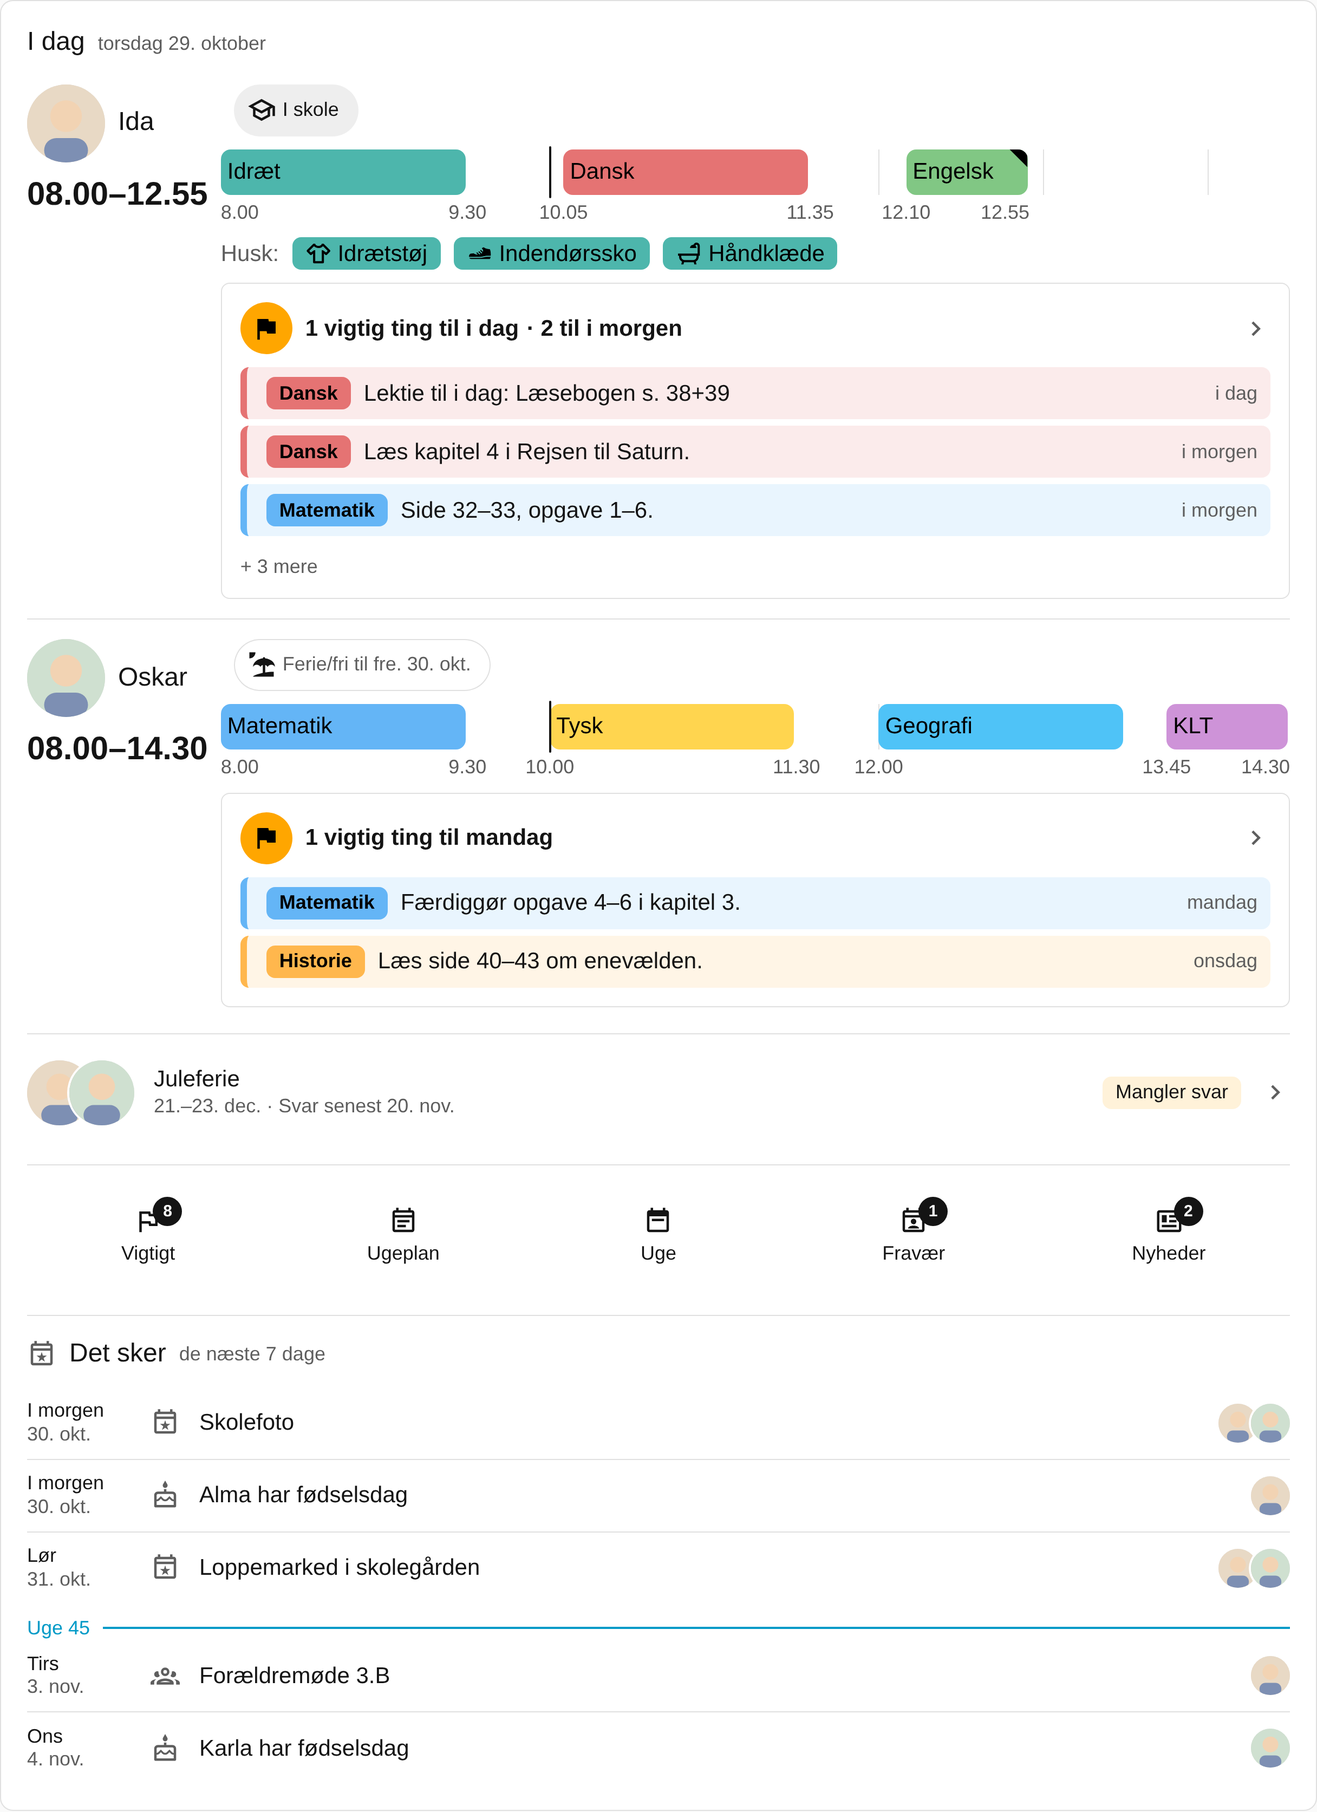
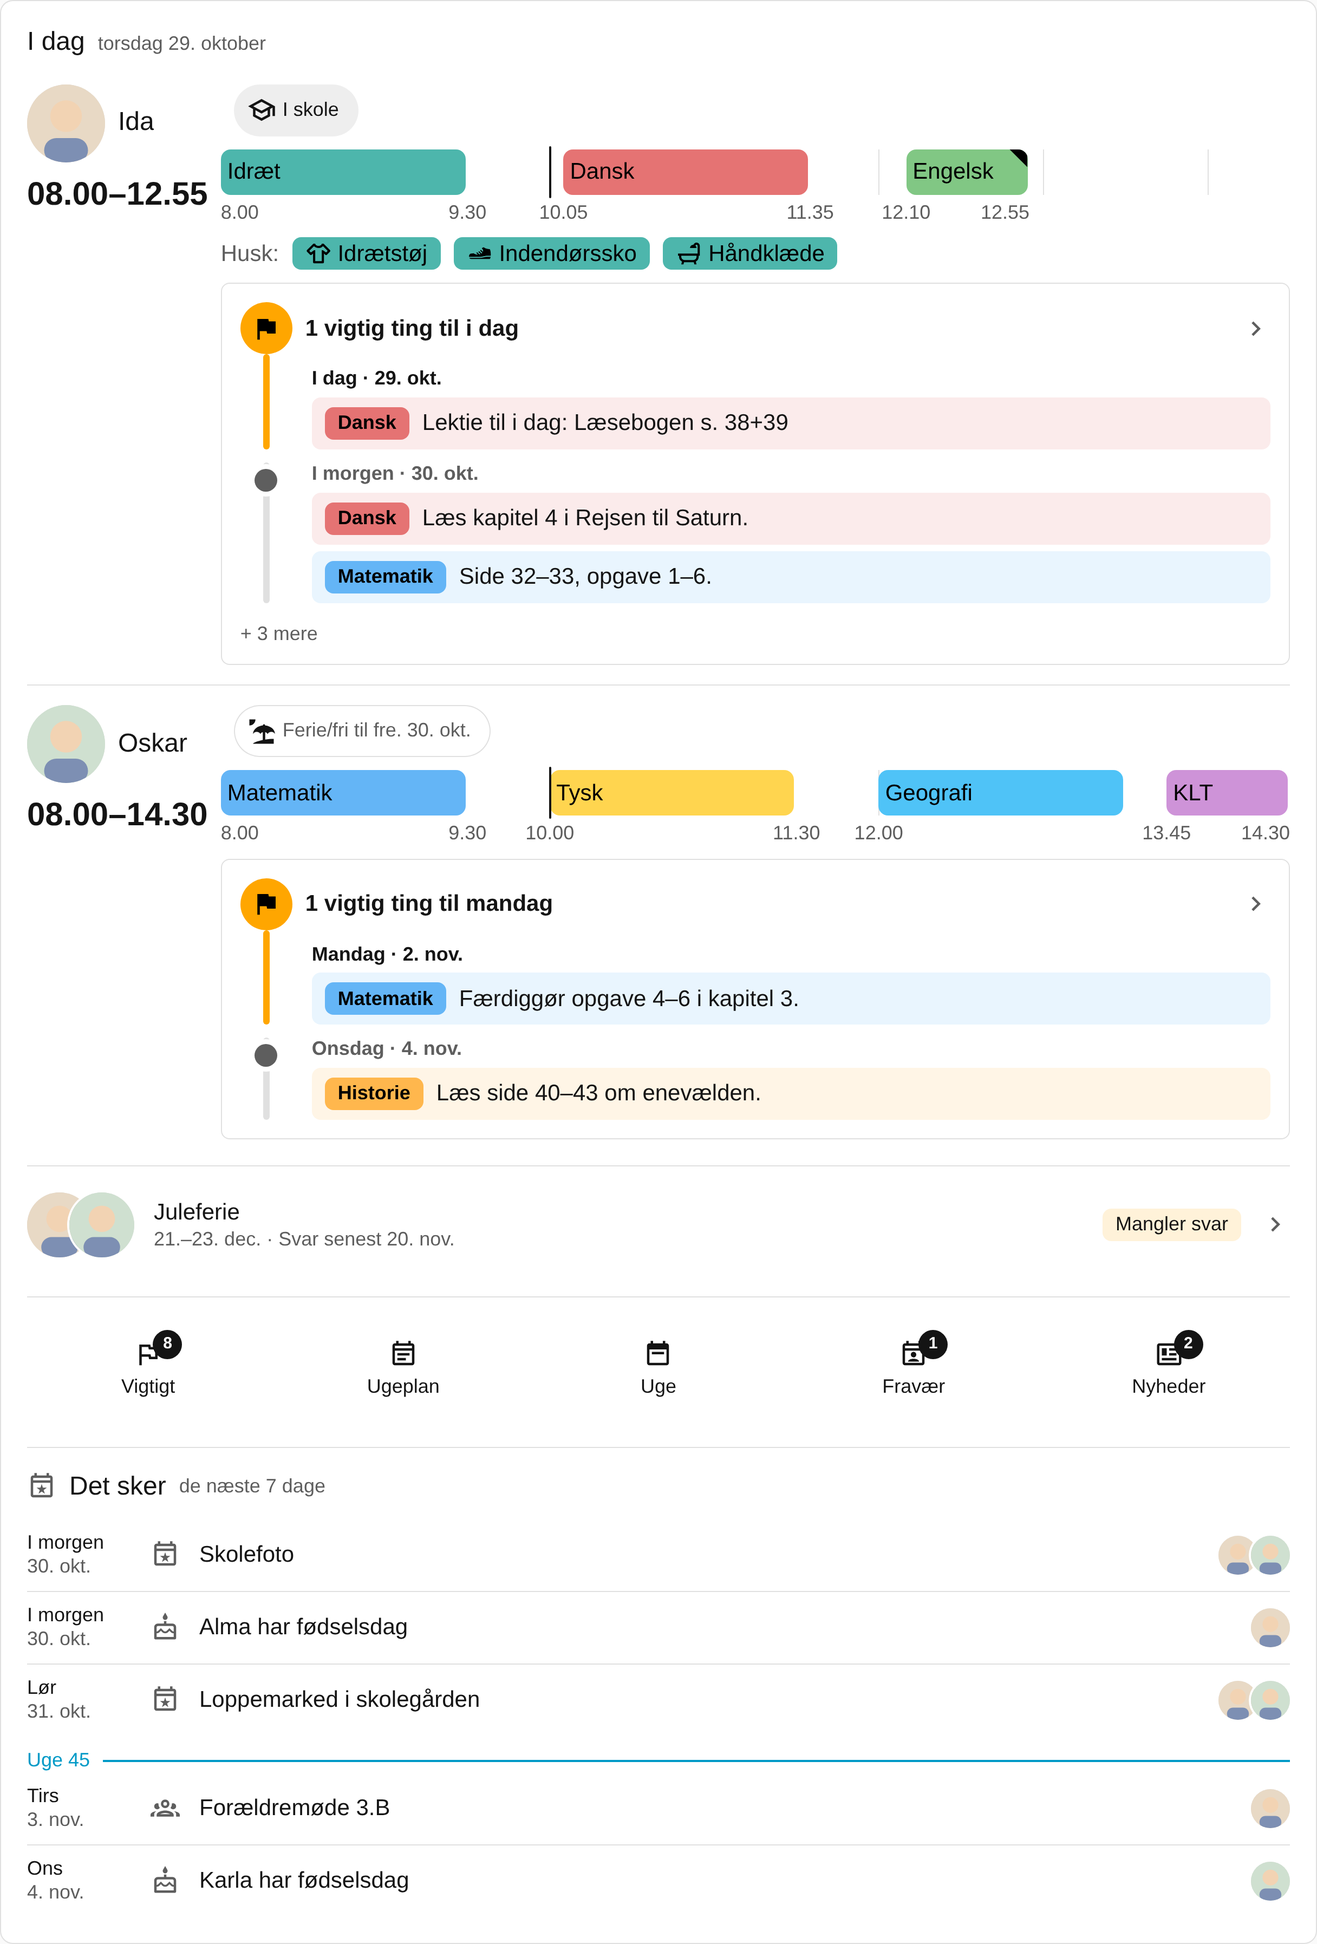
Show what is important by its day, an orange line running down from the flag through the first day, and no subject stripe
Claude-Session: https://claude.ai/code/session_01SqQDNZBDdSDZgAEZdkAgqw

diff --git a/src/ui/overview.ts b/src/ui/overview.ts
@@ -183,19 +183,22 @@ export function whenText(day: Day, ctx: ViewContext): string {
   return ahead < 7 ? formatWeekday(day, ctx.language) : formatShortDate(day, ctx.language);
 }
 
-/** Returns the days a summary names: the first with something important, and the next if soon. */
-function summaryDays(important: readonly ImportantDue[], ctx: ViewContext): Day[] {
-  return [...new Set(important.map((item) => item.day))].filter(
-    (day, index) => index === 0 || (index === 1 && daysBetween(ctx.today, day) <= 3),
-  );
+/** Returns a day's heading among the important: "I morgen · 30. okt.", or its weekday. */
+function dueDay(day: Day, ctx: ViewContext): string {
+  const word =
+    daysBetween(ctx.today, day) < 7 ? whenText(day, ctx) : formatWeekday(day, ctx.language);
+  return `${capitalize(word, ctx.language)} · ${formatShortDate(day, ctx.language)}`;
 }
 
-/** Returns how much is important for the days a summary names. */
-function importantParts(important: readonly ImportantDue[], ctx: ViewContext): string[] {
-  const on = (day: Day): number => important.filter((item) => item.day === day).length;
-  return summaryDays(important, ctx).map((day, index) =>
-    ctx.t(index === 0 ? "importantFor" : "importantThen", { n: on(day), when: whenText(day, ctx) }),
-  );
+/** Returns the notes grouped by their day, in order. */
+function byDay(important: readonly ImportantDue[]): { day: Day; notes: ImportantDue[] }[] {
+  const days: { day: Day; notes: ImportantDue[] }[] = [];
+  for (const due of important) {
+    const last = days.at(-1);
+    if (last?.day === due.day) last.notes.push(due);
+    else days.push({ day: due.day, notes: [due] });
+  }
+  return days;
 }
 
 /** Returns the axis every child's bar shares: from the earliest start to the latest end. */
@@ -311,8 +314,9 @@ function dueItem(due: ImportantDue, ctx: ViewContext): TemplateResult {
 }
 
 /**
- * Shows what is important coming up: how much for when, and as a list, the next `look.max` notes,
- * a line each with its subject and day; the whole opens all of them. Nothing where nothing is.
+ * Shows what is important coming up: how much for the first day, and as a list, the next
+ * `look.max` notes by their day, the first day on the flag's line; the whole opens all of them.
+ * Nothing where nothing is.
  */
 function importantBlock(
   item: OverviewChild,
@@ -326,7 +330,7 @@ function importantBlock(
   const key = `important|${String(item.child.child_id)}`;
   const list = look.important === "list";
   const hidden = item.important.length - look.max;
-  // The summary's later day wraps onto a line that is cut off, so that it shows only with room.
+  const count = item.important.filter((due) => due.day === first.day).length;
   return html`<button
     class="ov-important ${list ? "is-list" : "is-button"}"
     type="button"
@@ -339,27 +343,28 @@ function importantBlock(
     <span class="ov-important-head">
       <span class="ov-important-mark">${icon("mdi:flag")}</span
       ><span class="ov-important-sum"
-        >${importantParts(item.important, ctx).map(
-          (part, index) => html`<span>${index > 0 ? ` · ${part}` : part}</span>`,
-        )}</span
+        >${ctx.t("importantFor", { n: count, when: whenText(first.day, ctx) })}</span
       >${icon("mdi:chevron-right", "ov-important-go")}
     </span>
     ${
       list
         ? html`<span class="ov-important-lines">
-              ${item.important
-                .slice(0, look.max)
-                .map(
-                  (due) =>
-                    html`<span
-                      class="ov-important-line"
-                      style=${due.note.subject ? subjectColor(due.note.subject) : ""}
-                      >${due.note.subject ? subjectLabel(due.note.subject, ctx) : nothing}<span
-                        class="ov-important-text"
-                        >${aula(due.note.title ?? due.note.text.replace(/\n[\s\S]*$/, ""), ctx)}</span
-                      ><span class="ov-when">${whenText(due.day, ctx)}</span></span
-                    >`,
-                )}
+              ${byDay(item.important.slice(0, look.max)).map(
+                (group, index) =>
+                  html`<span class="ov-due-day ${index === 0 ? "is-first" : ""}"
+                    ><span class="ov-due-head">${dueDay(group.day, ctx)}</span>${group.notes.map(
+                      (due) =>
+                        html`<span
+                          class="ov-important-line"
+                          style=${due.note.subject ? subjectColor(due.note.subject) : ""}
+                          >${due.note.subject ? subjectLabel(due.note.subject, ctx) : nothing}<span
+                            class="ov-important-text"
+                            >${aula(due.note.title ?? due.note.text.replace(/\n[\s\S]*$/, ""), ctx)}</span
+                          ></span
+                        >`,
+                    )}</span
+                  >`,
+              )}
             </span>
             ${hidden > 0 ? html`<span class="ov-more">${ctx.t("moreCount", { n: hidden })}</span>` : nothing}`
         : nothing
@@ -827,30 +832,29 @@ export function openImportant(
   const important = options.paths.important;
   state.openModal(key, (ctx, close) => {
     const face = state.face(item.child);
-    const days = [...new Set(item.upcoming.map((due) => due.day))];
-    // The days the overview summed up are marked, and the window opens at the first of them.
-    const marked = summaryDays(item.important, ctx);
+    const days = byDay(item.upcoming);
+    // The first day the overview counts is the flag's, and the window opens at it.
+    const flagged = item.important[0]?.day;
     return modal(
       html`${head(ctx.t("importantTitle", { name: face.name }), [ctx.t("importantFrom", { day: whenText(ctx.today, ctx) })], [], ctx, close, faceImage(face, "window-face"))}
-      ${days.map((day, index) => {
-        const title = `${capitalize(daysBetween(ctx.today, day) < 7 ? whenText(day, ctx) : formatWeekday(day, ctx.language), ctx.language)} · ${formatShortDate(day, ctx.language)}`;
-        const notes = html`<ul class="note-due">
-          ${item.upcoming.filter((due) => due.day === day).map((due) => dueItem(due, ctx))}
-        </ul>`;
-        return html`${weekBreak(day, days[index - 1], ctx)}${
-          marked.includes(day)
-            ? html`<section
-                class="detail-section important-marked"
-                ?data-opens-at=${day === marked[0]}
-              >
-                <h3 class="detail-heading">
-                  <span class="ov-important-mark">${icon("mdi:flag")}</span>${title}
-                </h3>
-                ${notes}
-              </section>`
-            : section(title, [], notes)
-        }`;
-      })}
+      ${days.map(
+        (group, index) =>
+          html`${weekBreak(group.day, days[index - 1]?.day, ctx)}
+            <section
+              class="due-day ${group.day === flagged ? "is-first" : ""}"
+              ?data-opens-at=${group.day === flagged}
+            >
+              ${
+                group.day === flagged
+                  ? html`<span class="ov-important-mark due-node">${icon("mdi:flag")}</span>`
+                  : html`<span class="due-dot"></span>`
+              }
+              <h3 class="due-head">${dueDay(group.day, ctx)}</h3>
+              <ul class="note-due">
+                ${group.notes.map((due) => dueItem(due, ctx))}
+              </ul>
+            </section>`,
+      )}
       ${
         important === null
           ? nothing

diff --git a/src/ui/styles.ts b/src/ui/styles.ts
@@ -2958,15 +2958,63 @@ export const family = css`
   .ov-important-lines {
     display: flex;
     flex-direction: column;
+    gap: var(--aula-space-2);
+  }
+  /* A line runs down from the flag through the first day's notes; a later day has a dot on a
+     quiet line. The line sits under the flag's middle. */
+  .ov-due-day,
+  .due-day {
+    position: relative;
+    display: flex;
+    flex-direction: column;
     gap: var(--aula-space-1);
+    padding-inline-start: calc(44px * var(--aula-scale));
+  }
+  .ov-due-day::before,
+  .due-day::before {
+    position: absolute;
+    inset-block: 0;
+    inset-inline-start: calc(14px * var(--aula-scale));
+    width: calc(4px * var(--aula-scale));
+    border-radius: 999px;
+    background: var(--aula-line);
+    content: "";
+  }
+  .ov-due-day.is-first::before,
+  .due-day.is-first::before {
+    background: var(--aula-warning);
+  }
+  .ov-important-lines > .ov-due-day.is-first::before {
+    top: calc(-1 * var(--aula-space-2));
+  }
+  .ov-due-day:not(.is-first)::after,
+  .due-dot {
+    position: absolute;
+    top: calc(4px * var(--aula-scale));
+    inset-inline-start: calc(9px * var(--aula-scale));
+    width: calc(14px * var(--aula-scale));
+    height: calc(14px * var(--aula-scale));
+    border-radius: 50%;
+    background: var(--aula-text-2);
+    box-shadow: 0 0 0 calc(3px * var(--aula-scale)) var(--aula-surface);
+    content: "";
+  }
+  .ov-due-head,
+  .due-head {
+    margin: 0;
+    color: var(--aula-text-2);
+    font-size: var(--aula-font-s);
+    font-weight: var(--aula-bold);
+  }
+  .is-first > :is(.ov-due-head, .due-head) {
+    color: var(--aula-text);
   }
   .ov-important-line {
     display: flex;
     align-items: center;
     gap: var(--aula-space-2);
     min-height: calc(32px * var(--aula-scale));
-    padding: 0 var(--aula-space-2) 0 var(--aula-space-3);
-    border-inline-start: calc(4px * var(--aula-scale)) solid var(--subject, var(--aula-line));
+    padding: 0 var(--aula-space-2);
     border-radius: var(--aula-radius);
     background: color-mix(in srgb, var(--subject, var(--aula-text-2)) 14%, var(--aula-surface));
   }
@@ -2988,25 +3036,32 @@ export const family = css`
   .ov-panel .ov-important-text {
     white-space: normal;
   }
-  /* In the window of all that is important, the days the overview summed up stand out. */
-  .important-marked {
-    padding-inline-start: var(--aula-space-3);
-    border-inline-start: calc(4px * var(--aula-scale)) solid var(--aula-warning);
+  /* In the window, the flag starts the first day's line, and the heading stands beside it. */
+  .due-day {
+    gap: var(--aula-space-2);
+    padding-block-end: var(--aula-space-3);
   }
-  .important-marked > .detail-heading {
+  .due-day.is-first::before {
+    top: calc(16px * var(--aula-scale));
+  }
+  .due-node {
+    position: absolute;
+    top: 0;
+    inset-inline-start: 0;
+    z-index: 1;
+  }
+  .due-day .due-dot {
+    top: calc(9px * var(--aula-scale));
+    z-index: 1;
+  }
+  .due-head {
     display: flex;
     align-items: center;
-    gap: var(--aula-space-2);
-    color: var(--aula-text);
-  }
-  .important-marked .ov-important-mark {
-    width: calc(24px * var(--aula-scale));
-    height: calc(24px * var(--aula-scale));
-    --mdc-icon-size: calc(14px * var(--aula-scale));
+    min-height: calc(32px * var(--aula-scale));
+    font-size: var(--aula-font-m);
   }
   .note-due > li.due {
-    padding: var(--aula-space-3) var(--aula-space-3) var(--aula-space-3) var(--aula-space-4);
-    border-inline-start: calc(5px * var(--aula-scale)) solid var(--subject, var(--aula-line));
+    padding: var(--aula-space-3);
     border-radius: var(--aula-radius);
     background: color-mix(in srgb, var(--subject, var(--aula-text-2)) 14%, var(--aula-surface));
   }

diff --git a/tests/ui/overview-cards.test.ts b/tests/ui/overview-cards.test.ts
@@ -235,7 +235,7 @@ describe("the overview", () => {
     expect(texts(card, ".ov-name")).toEqual(["Ida", "Oskar"]);
     expect(texts(card, ".presence")).toEqual(["I skole", "Kommer 07.45"]);
     expect(texts(card, ".ov-important-sum")).toEqual([
-      "1 vigtig ting til i dag · 2 til i morgen",
+      "1 vigtig ting til i dag",
       "1 vigtig ting til mandag",
     ]);
     expect(texts(card, ".ov-tile")).toEqual(["8 Vigtigt", "Ugeplan", "Uge", "Fravær", "Nyheder"]);
@@ -274,18 +274,18 @@ describe("the overview", () => {
     expect(windowText(card)).toBe("");
   });
 
-  it("marks in the window the days the overview sums up, among all from today on", async () => {
+  it("starts the flag's line in the window at the first day the overview counts, among all from today on", async () => {
     const { card } = await mount(OVERVIEW, "thu-1530", { today: todayOf });
     expect(texts(card, ".ov-important-sum")[0]).toBe("2 vigtige ting til i morgen");
     await tap(card, ".ov-important");
     expect(windowText(card)).toContain("Fra i dag og frem");
-    expect(texts(card, "dialog .detail-heading").slice(0, 2)).toEqual([
+    expect(texts(card, "dialog .due-head").slice(0, 2)).toEqual([
       "I dag · 29. okt.",
       "I morgen · 30. okt.",
     ]);
-    expect(texts(card, "dialog .important-marked .detail-heading")).toEqual([
-      "I morgen · 30. okt.",
-    ]);
+    expect(texts(card, "dialog .due-day.is-first .due-head")).toEqual(["I morgen · 30. okt."]);
+    expect(all(card, "dialog .due-node")).toHaveLength(1);
+    expect(all(card, "dialog .due-dot").length).toBeGreaterThan(1);
     expect(all(card, "dialog [data-opens-at]")).toHaveLength(1);
     expect(texts(card, "dialog .week-break")).toEqual(["Uge 45"]);
     expect(
@@ -481,7 +481,12 @@ describe("the overview", () => {
   it("lists the next important notes, each with its subject and day, and opens them all", async () => {
     const { card } = await mount(OVERVIEW, "thu-1000", { today: todayOf });
     expect(all(card, ".ov-row:nth-child(1) .ov-important-line")).toHaveLength(3);
-    expect(texts(card, ".ov-row:nth-child(1) .ov-when")).toEqual(["i dag", "i morgen", "i morgen"]);
+    expect(texts(card, ".ov-row:nth-child(1) .ov-due-head")).toEqual([
+      "I dag · 29. okt.",
+      "I morgen · 30. okt.",
+    ]);
+    expect(all(card, ".ov-row:nth-child(1) .ov-due-day.is-first")).toHaveLength(1);
+    expect(all(card, ".ov-row:nth-child(1) .ov-when")).toEqual([]);
     expect(texts(card, ".ov-row:nth-child(1) .ov-important-text")[0]).toBe(
       "Lektie til i dag: Læsebogen s. 38+39",
     );
@@ -630,7 +635,10 @@ describe("the overview's other days", () => {
         (line) => !line.querySelector(".label.subject"),
       ),
     ).not.toEqual([]);
-    expect(texts(card, ".ov-col:nth-child(2) .ov-when")).toEqual(["3. nov.", "4. nov."]);
+    expect(texts(card, ".ov-col:nth-child(2) .ov-due-head")).toEqual([
+      "Tirsdag · 3. nov.",
+      "Onsdag · 4. nov.",
+    ]);
   });
 
   it("names an unknown subject's tile by a book", () => {

diff --git a/tests/ui/styles.test.ts b/tests/ui/styles.test.ts
@@ -290,10 +290,12 @@ describe("a window", () => {
     expect(declared(details, ".detail-head").join(";")).toContain("--ha-dialog-surface-background");
   });
 
-  it("marks the days of what is important the overview summed up by the colour of its flag", () => {
-    expect(declared(family, ".important-marked")).toContain(
-      "border-inline-start: calc(4px * var(--aula-scale)) solid var(--aula-warning)",
+  it("runs the flag's colour down the first day of what is important, a note marked by its subject alone", () => {
+    expect(declared(family, ".ov-due-day.is-first::before")).toContain(
+      "background: var(--aula-warning)",
     );
+    expect(declared(family, ".ov-important-line").join(";")).not.toContain("border-inline-start");
+    expect(declared(family, ".note-due > li.due").join(";")).not.toContain("border-inline-start");
   });
 });
 

diff --git a/src/core/i18n.ts b/src/core/i18n.ts
@@ -228,7 +228,6 @@ const TEXTS = {
     { one: "{n} important thing for {when}", other: "{n} important things for {when}" },
     { one: "{n} vigtig ting til {when}", other: "{n} vigtige ting til {when}" },
   ],
-  importantThen: ["{n} for {when}", "{n} til {when}"],
   whenToday: ["today", "i dag"],
   whenTomorrow: ["tomorrow", "i morgen"],
   inDays: [

diff --git a/README.md b/README.md
@@ -318,14 +318,15 @@ Three looks, chosen in the children's bar or kept with `look`:
   hours, and shows the time now; a tap shows it large, and any tap closes it. A child away or
   sick has its presence there instead.
 
-What is important is headed by an orange flag and how much is due when - **4 vigtige ting til i
-dag · 2 til i morgen**, the later day only where it fits - and left out where nothing is. Each
-look is set apart, under `rows`, `columns` and `board`: `important` is `list`, the default, the
-next `important_max` notes (3 unless set, up to 99) a line each with its subject in its colour
-and its day, and **+ 2 mere** for the rest; or `button`, the heading alone. On the board a note's
-line is whole; elsewhere it ends in "…" where it does not fit. A tap opens all from today on, day
-by day, the days the heading names marked with the flag's colour, and the window opens at the
-first of them; its head, whose they are, stays in sight as it scrolls.
+What is important is headed by an orange flag and how much is due on its first day - **4 vigtige
+ting til i dag** - and left out where nothing is. Each look is set apart, under `rows`, `columns`
+and `board`: `important` is `list`, the default, the next `important_max` notes (3 unless set, up
+to 99) under their day, **Mandag · 2. nov.**, a line each with its subject in its colour, and
+**+ 2 mere** for the rest; or `button`, the heading alone. An orange line runs down from the flag
+through the first day's notes; a later day has a grey dot on a grey line, so that the days stand
+apart. On the board a note's line is whole; elsewhere it ends in "…" where it does not fit. A tap
+opens all from today on, day by day on the same line, the flag starting it at the first day the
+heading counts, where the window opens; its head, whose they are, stays in sight as it scrolls.
 
 ```yaml
 type: custom:aula-connect-overview-card

diff --git a/CLAUDE.md b/CLAUDE.md
@@ -13,9 +13,11 @@ how it is set up: the README.
 - The school day, week plan, week, overview, important and opening hours cards only show. The
   sick and Ferie/fri cards, the overview's presence and request windows, and a new post's window
   act in Aula only on a tap: one window for what is done, saying what it does and for whom, its
-  one button naming it ("Meld Ida syg og send besked"), with no dialog to confirm it again and no
-  note that Aula is told. Where part of it fails, the window says what was done and offers the
-  rest again. A post is marked read only by its own button, never by being shown. What is
+  one button naming it ("Meld Ida syg og send besked"), with no dialog to confirm it and no note
+  that Aula is told. What cannot be taken back - a sick report, a message - is sent only after a
+  choice made in the window, such as the child, nothing chosen for the user: a tap in a pocket
+  never sends it. Where part of it fails, the window says what was done and offers the rest
+  again. A post is marked read only by its own button, never by being shown. What is
   opened closes again by itself.
 - The dashboard's first page shows only what matters now; what needs the family comes to the
   overview and goes once it is done. Sickness, vacations and vacation requests are Fravær, a
